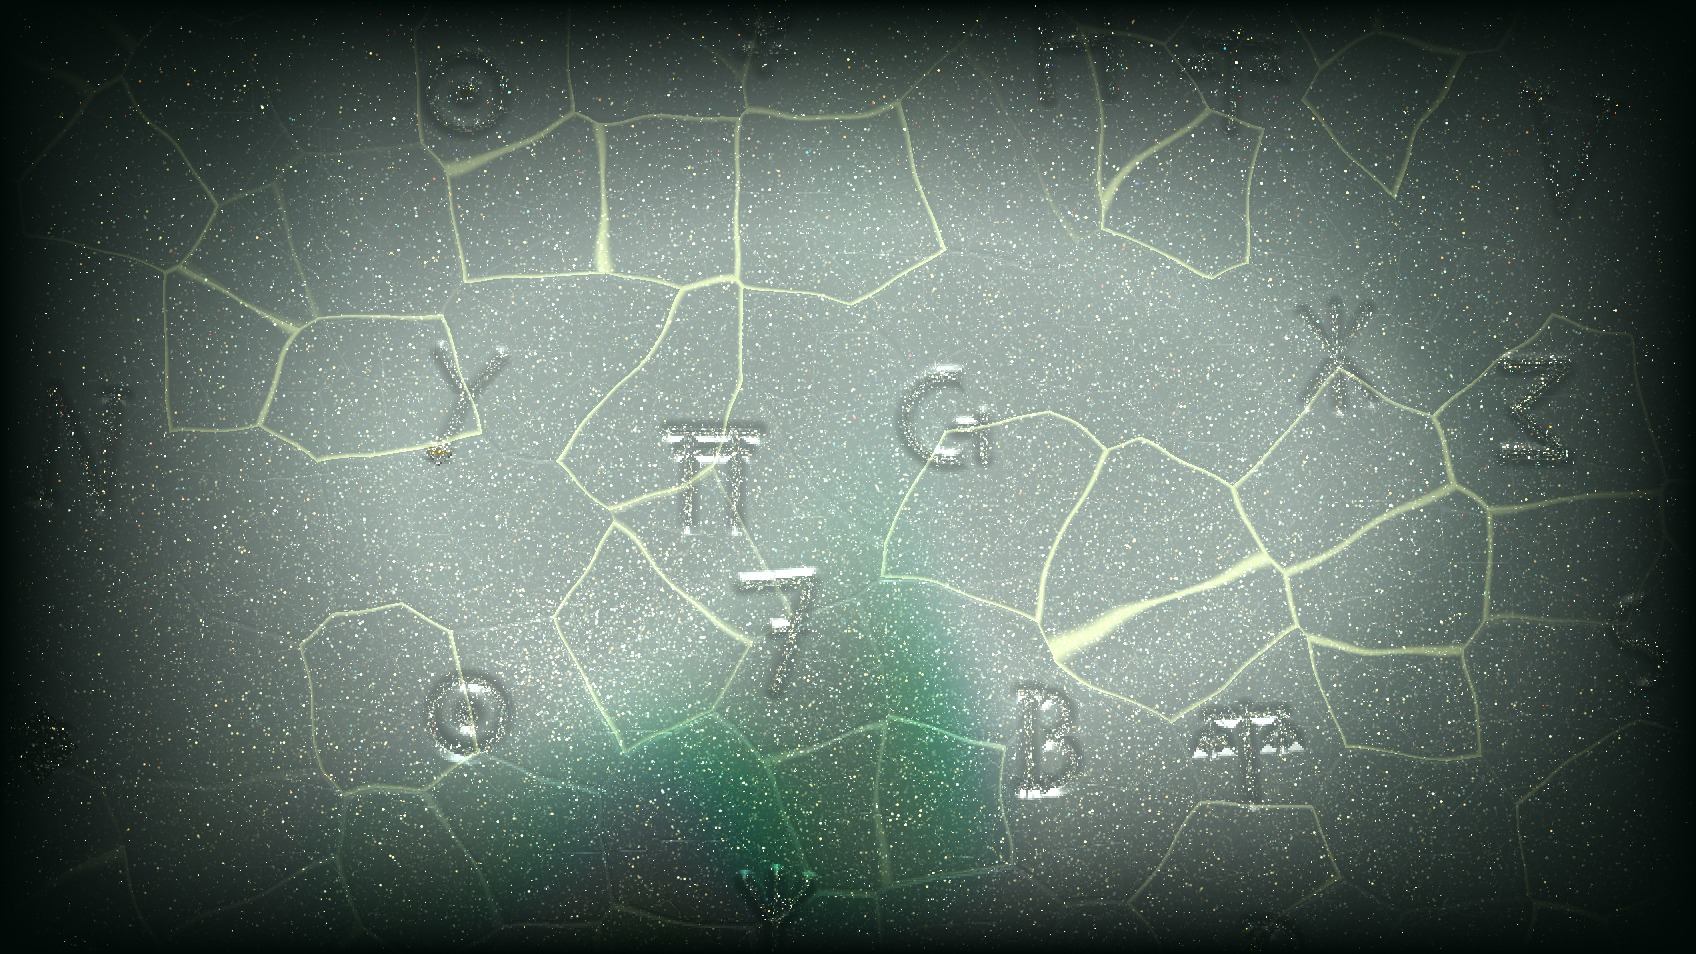
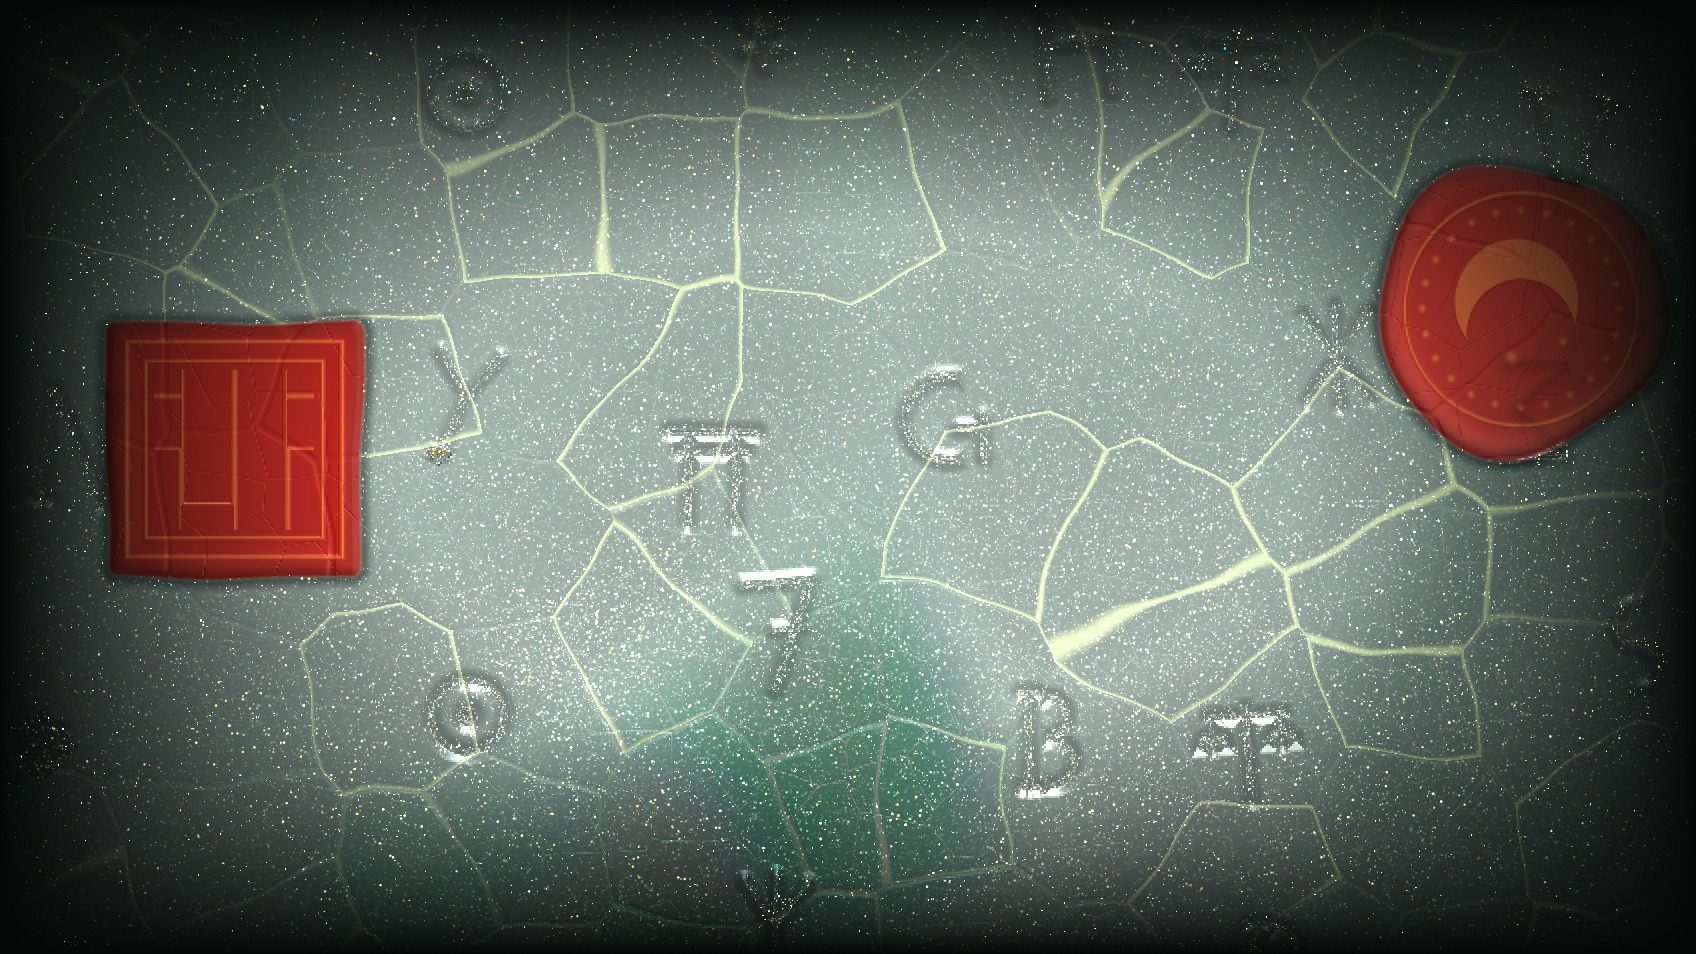
Polish Concept 09 medallions, substrates, and startup initialization
Visual QA inspection of hardware-rendered Concept 09 screenshots uncovered
several startup and shading issues, all resolved and verified:

- Fix medallion startup lifecycle in EmbossedGlyphMatrix.qml: defer initial
  slot population until viewport width/height are laid out (> 10px), fix
  asymmetric hash22 jitter bias, and tighten spacing (2.65) so 2-4 seals
  appear reliably on screen.
- Fix non-zero palette startup substrate ghosting: snap substrateIdA/B
  immediately while !isStarted so non-Celadon themes boot with 100% of
  their own substrate from frame 1 (preserving smooth cross-fades at runtime).
- Attenuate underlying glyph relief under opaque medallions (wax seals,
  holographic stickers, flush metal & MOP inlays) while keeping pyrography
  brands naturally conformed to the wood grain.
- Enhance Cinnabar Wax Seals with plump 3D poured-wax rims, cast contact
  shadows, and richer specular/SSS; refine Luthier Mother-of-Pearl rosettes
  with warm wood interiors, crisp ebony purfling, and iridescent nacre inlay;
  deepen Pyrography Brand carbon core and warm toasted-sepia scorch halo.
- Refine Bismuth hopper crystals (interlocking dual-scale terraces +
  geometry-coupled thin-film iridescence), Abalone & Fire Opal Nacre
  (deepened oceanic teal base + aragonite-coupled iridescence), and
  Tiger-Flame Maple (organic wavy curly flame + sharper fine wood fibers).
- Refresh Concept 09 hero and 3x2 substrates showcase screenshots.

diff --git a/engine/EmbossedGlyphMatrix.qml b/engine/EmbossedGlyphMatrix.qml
@@ -488,10 +488,10 @@ Item {
     }
 
     function getStickerCenter(cx, cy) {
-        var sSpacing = 3.2;
+        var sSpacing = 2.65;
         var h = hash22(cx * 53.41 + 8.1, cy * 53.41 + 91.7);
-        var jitterX = (h[0] - 0.5) * 0.55;
-        var jitterY = (h[1] - 0.5) * 0.55;
+        var jitterX = h[0] * 0.28;
+        var jitterY = h[1] * 0.28;
         return [
             (cx + 0.5 + jitterX) * sSpacing,
             (cy + 0.5 + jitterY) * sSpacing
@@ -499,7 +499,10 @@ Item {
     }
 
     function updateStickerLifecycle() {
-        var aspect = Math.max(1.0, root.width) / Math.max(1.0, root.height);
+        // Wait until viewport geometry is laid out before initializing visible medallion cells
+        if (root.width <= 10 || root.height <= 10) return;
+
+        var aspect = root.width / root.height;
         var zoom = Math.max(0.25, root.glyphZoom);
         var scaleX = aspect * 3.8 * zoom;
         var scaleY = 3.8 * zoom;
@@ -528,7 +531,7 @@ Item {
         var minPosY = scrollVecY - 0.25 * scaleY;
         var maxPosY = scrollVecY + 1.30 * scaleY;
 
-        var sSpacing = 3.2;
+        var sSpacing = 2.65;
         var minCX = Math.floor(minPosX / sSpacing) - 1;
         var maxCX = Math.floor(maxPosX / sSpacing) + 1;
         var minCY = Math.floor(minPosY / sSpacing) - 1;
@@ -549,9 +552,9 @@ Item {
                     var cInit = getStickerCenter(initCX, initCY);
                     var initUX = (cInit[0] - scrollVecX) / scaleX;
                     var initUY = (cInit[1] - scrollVecY) / scaleY;
-                    if (themeHasHolo && initUX >= -0.20 && initUX <= 1.20 && initUY >= -0.20 && initUY <= 1.20) {
+                    if (themeHasHolo && initUX >= 0.05 && initUX <= 0.95 && initUY >= 0.05 && initUY <= 0.95) {
                         var hInit = hash12(initCX * 37.19 + 15.3, initCY * 37.19 + 71.9);
-                        if (hInit <= 0.58) {
+                        if (hInit <= 0.72) {
                             keptStickers.push({ cx: initCX, cy: initCY, intensity: curHolo, sealStyle: curSealStyle });
                         }
                     }
@@ -573,7 +576,7 @@ Item {
                         // Cell is entering from off-screen!
                         if (uvX >= 0.95 || uvY >= 0.95) {
                             var hCandidate = hash12(cx * 37.19 + 15.3, cy * 37.19 + 71.9);
-                            if (hCandidate <= 0.58 && themeHasHolo) {
+                            if (hCandidate <= 0.72 && themeHasHolo) {
                                 keptStickers.push({ cx: cx, cy: cy, intensity: curHolo, sealStyle: curSealStyle });
                             }
                         }
@@ -621,6 +624,8 @@ Item {
 
     onCurrentScrollTimeChanged: updateStickerLifecycle()
     onCurrentPaletteIndexChanged: updateStickerLifecycle()
+    onWidthChanged: if (!stickerLifecycleInitialized) updateStickerLifecycle()
+    onHeightChanged: if (!stickerLifecycleInitialized) updateStickerLifecycle()
 
     // Fallback safety timer if simulation time is paused
     Timer {
@@ -757,7 +762,11 @@ Item {
         if (p.filmRegime !== undefined) root.filmRegime = p.filmRegime
         if (p.substrateId !== undefined) {
             var nextSub = p.substrateId
-            if (nextSub !== root.substrateIdB) {
+            if (!root.isStarted) {
+                root.substrateIdA = nextSub
+                root.substrateIdB = nextSub
+                root.substrateBlend = 0.0
+            } else if (nextSub !== root.substrateIdB) {
                 if (substrateBlendAnim.running) {
                     root.substrateIdA = root.substrateIdB
                     substrateBlendAnim.stop()

diff --git a/engine/Palettes.qml b/engine/Palettes.qml
@@ -76,7 +76,7 @@ QtObject {
         { name: "Volcanic Obsidian & Prismatic Foil",            stone: "#090a0e", porcelain: "#1c2430", gold: "#66fcf1", sheen: "#c77dff", voidColor: "#000000", glitter: 1.10, iridescence: 1.85, holo: 1.55, holoMode: 1.00, filmRegime: 0.12, substrateId: 3,  sealStyle: 0 },
         { name: "Cybernetic Bismuth Monolith",                   stone: "#14181c", porcelain: "#f0f3f5", gold: "#ffb703", sheen: "#00b4d8", voidColor: "#090a0c", glitter: 1.25, iridescence: 1.75, holo: 1.65, holoMode: 1.00, filmRegime: 0.05, substrateId: 4,  sealStyle: 0 },
         { name: "Hammered Platinum & Starlight Diamond",         stone: "#11141b", porcelain: "#f5f8fc", gold: "#e2e8f0", sheen: "#67e8f9", voidColor: "#04060a", glitter: 1.95, iridescence: 1.15, holo: 1.80, holoMode: 1.00, filmRegime: 0.30, substrateId: 5,  sealStyle: 0 },
-        { name: "Abalone Shell & Fire Opal Nacre",               stone: "#041c1e", porcelain: "#ecfeff", gold: "#2dd4bf", sheen: "#a78bfa", voidColor: "#020d0e", glitter: 1.40, iridescence: 2.00, holo: 1.45, holoMode: 1.00, filmRegime: 1.00, substrateId: 6,  sealStyle: 0 },
+        { name: "Abalone Shell & Fire Opal Nacre",               stone: "#041c1e", porcelain: "#1a6b78", gold: "#2dd4bf", sheen: "#a78bfa", voidColor: "#020d0e", glitter: 1.40, iridescence: 2.00, holo: 1.45, holoMode: 1.00, filmRegime: 1.00, substrateId: 6,  sealStyle: 0 },
         { name: "Tiger-Flame Maple Lutherie",                    stone: "#3b1f0e", porcelain: "#f5dca4", gold: "#d98a36", sheen: "#f6c270", voidColor: "#140903", glitter: 0.45, iridescence: 0.85, holo: 1.15, holoMode: 0.25, filmRegime: 0.35, substrateId: 7,  sealStyle: 3 },
         { name: "Burl Walnut & French Polish",                   stone: "#1d100a", porcelain: "#6b3822", gold: "#e2b15b", sheen: "#b87a4b", voidColor: "#0a0503", glitter: 0.55, iridescence: 0.65, holo: 1.10, holoMode: 0.40, filmRegime: 0.25, substrateId: 8,  sealStyle: 2 },
         { name: "Shou Sugi Ban Charred Cedar",                   stone: "#0f0c0b", porcelain: "#7a4424", gold: "#e8b04b", sheen: "#c96d3b", voidColor: "#040303", glitter: 0.85, iridescence: 0.95, holo: 1.35, holoMode: 0.85, filmRegime: 0.15, substrateId: 9,  sealStyle: 0 },

diff --git a/tools/harness/harness.qml b/tools/harness/harness.qml
@@ -117,7 +117,7 @@ ApplicationWindow {
         { name: "Volcanic Obsidian & Prismatic Foil",            bg: "#090a0e", dye1: "#1c2430", dye2: "#66fcf1", dye3: "#c77dff" },
         { name: "Cybernetic Bismuth Monolith",                   bg: "#14181c", dye1: "#f0f3f5", dye2: "#ffb703", dye3: "#00b4d8" },
         { name: "Hammered Platinum & Starlight Diamond",         bg: "#11141b", dye1: "#f5f8fc", dye2: "#e2e8f0", dye3: "#67e8f9" },
-        { name: "Abalone Shell & Fire Opal Nacre",               bg: "#041c1e", dye1: "#ecfeff", dye2: "#2dd4bf", dye3: "#a78bfa" },
+        { name: "Abalone Shell & Fire Opal Nacre",               bg: "#041c1e", dye1: "#1a6b78", dye2: "#2dd4bf", dye3: "#a78bfa" },
         { name: "Tiger-Flame Maple Lutherie",                    bg: "#3b1f0e", dye1: "#f5dca4", dye2: "#d98a36", dye3: "#f6c270" },
         { name: "Burl Walnut & French Polish",                   bg: "#1d100a", dye1: "#6b3822", dye2: "#e2b15b", dye3: "#b87a4b" },
         { name: "Shou Sugi Ban Charred Cedar",                   bg: "#0f0c0b", dye1: "#7a4424", dye2: "#e8b04b", dye3: "#c96d3b" },
